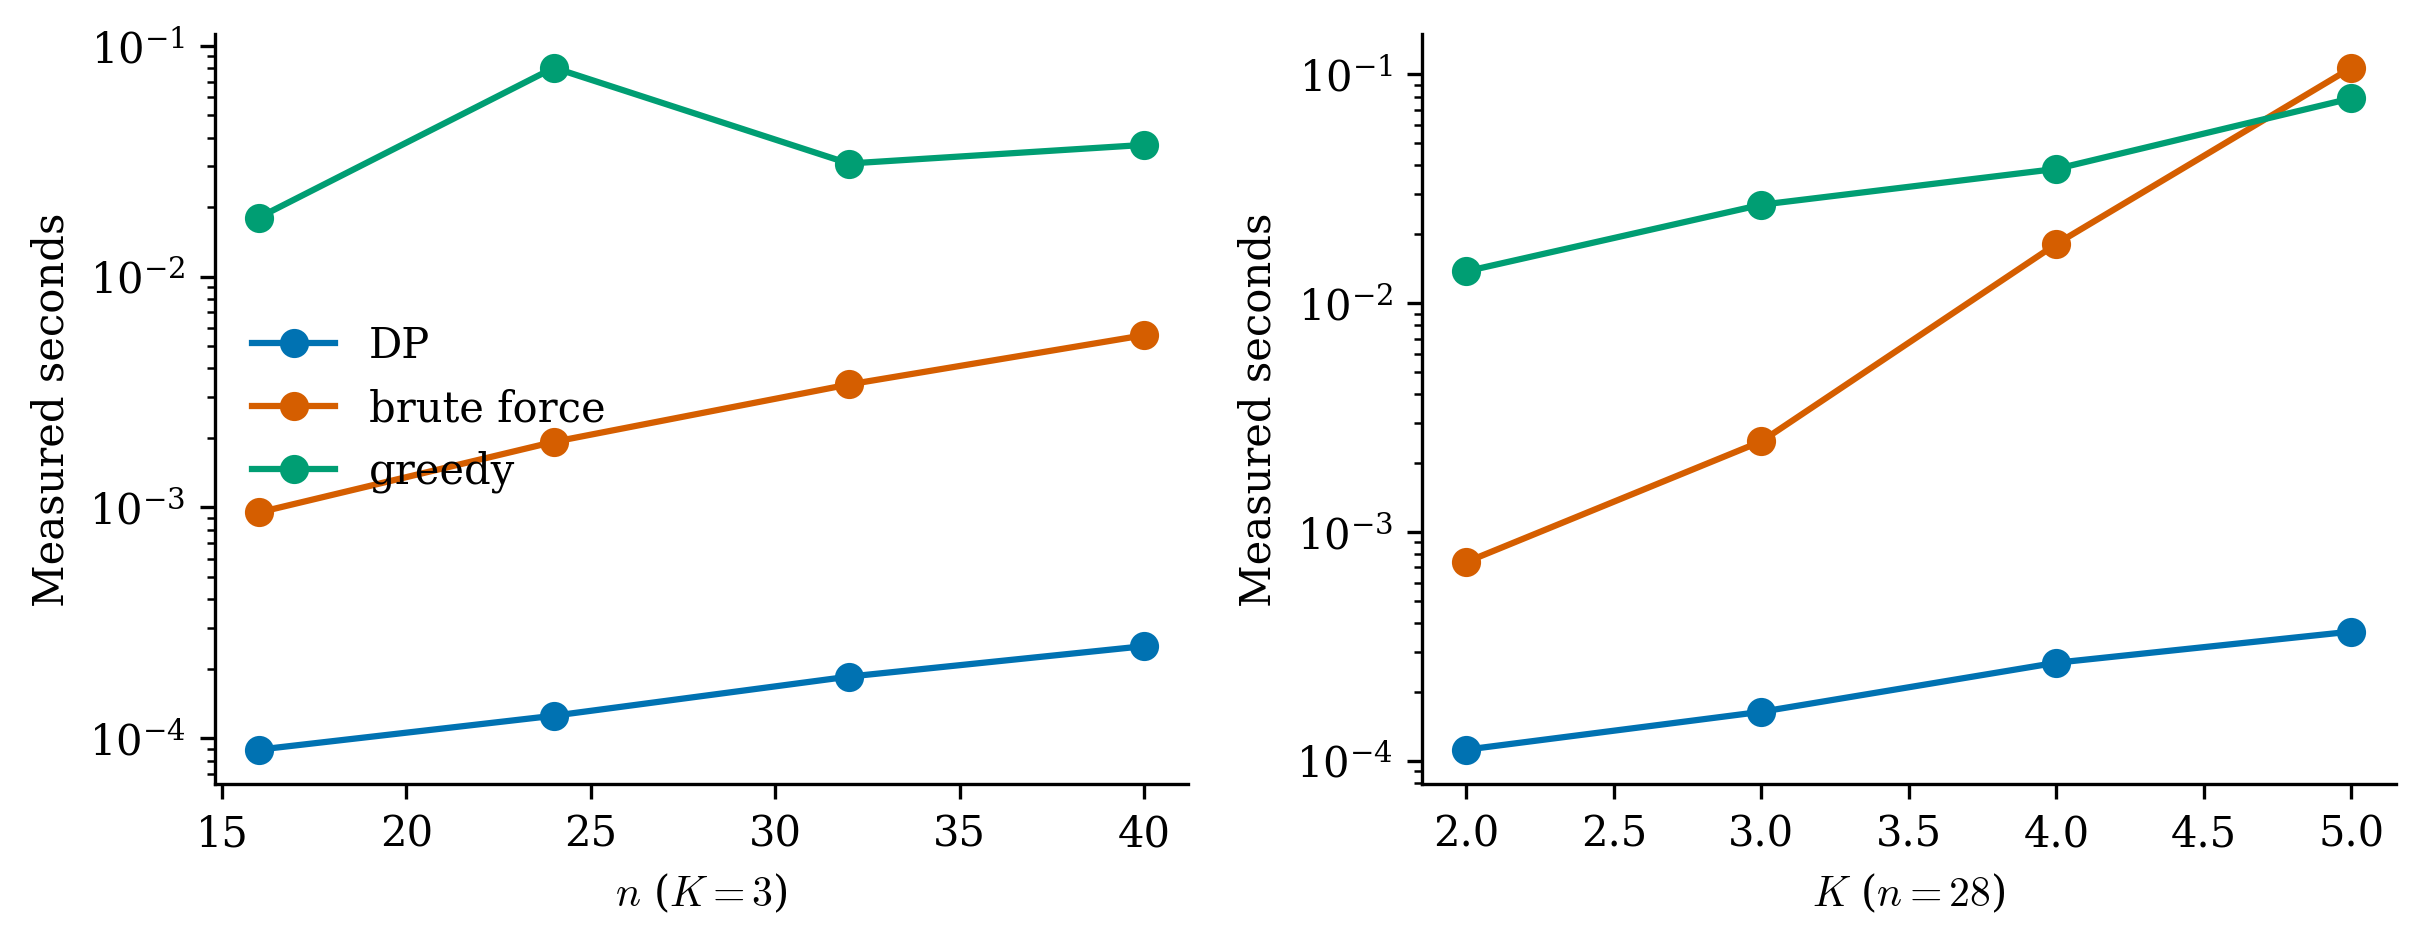
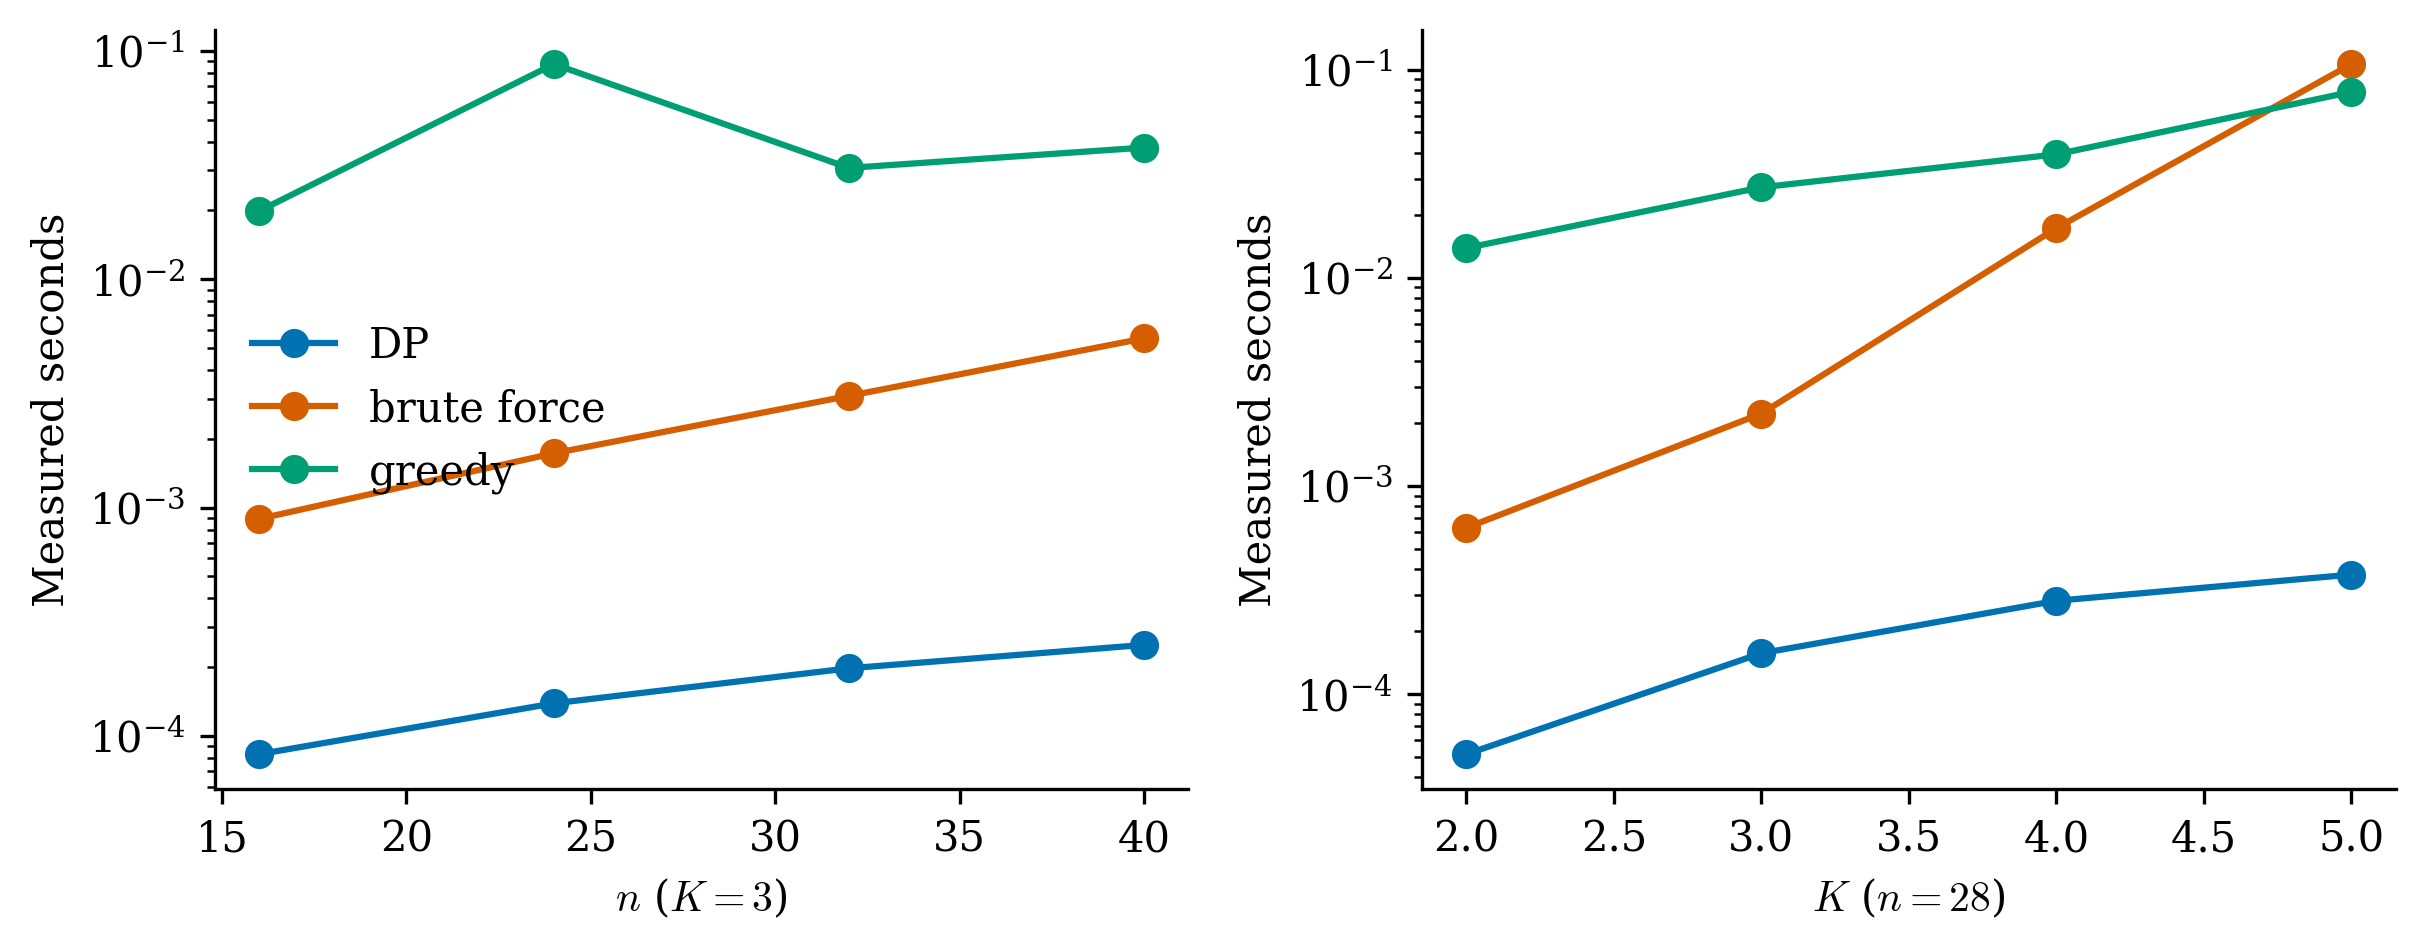
Document historical artifact source

diff --git a/scripts/rebuttal/phase1_audit.py b/scripts/rebuttal/phase1_audit.py
@@ -486,6 +486,16 @@ Measured repeats are in [timings.csv](results/timings.csv); command output is in
 [test_output.txt](results/test_output.txt). The pre-change workflow record is in
 [baseline.md](baseline.md).
 
+## Historical reference tree
+
+Artifacts not ported into this cleaner repository are checked read-only under
+`/scratch/ga442/Weighted-ERM` (override with `WERM_HISTORICAL_ROOT`). The
+Myocardial status is an archived-result `SMOKE`, based on structural validation
+of the historical posterior pickle; it is not a fresh reproduction. Historical
+FRED CSV/RData inputs were located but not rerun. No audit command writes to or
+modifies the historical tree, and no historical result pickle is copied into
+this repository. If that source tree is unavailable, Myocardial is `BLOCKED`.
+
 The DP candidate matches the live brute-force convention: `Delta` constrains
 adjacent internal changepoints but not endpoints, and K uses the first K columns
 of Z. The requested log-binomial penalty uses K-1 changepoints. No manuscript

diff --git a/rebuttal/phase1/README.md b/rebuttal/phase1/README.md
@@ -6,7 +6,7 @@
 - Maximum objective difference: **0.000e+00**
 - Cases where DP was worse than greedy: **0**
 - Focused tests: **46 passed**
-- DP faster than brute force: **8 / 8** matched configurations (6.6x--291.6x)
+- DP faster than brute force: **8 / 8** matched configurations (10.7x--283.9x)
 - Exact rerun: `bash scripts/rebuttal/check_phase1.sh`
 
 ![DP versus brute force](figures/01_dp_vs_bruteforce.png)
@@ -26,6 +26,16 @@
 Measured repeats are in [timings.csv](results/timings.csv); command output is in
 [test_output.txt](results/test_output.txt). The pre-change workflow record is in
 [baseline.md](baseline.md).
+
+## Historical reference tree
+
+Artifacts not ported into this cleaner repository are checked read-only under
+`/scratch/ga442/Weighted-ERM` (override with `WERM_HISTORICAL_ROOT`). The
+Myocardial status is an archived-result `SMOKE`, based on structural validation
+of the historical posterior pickle; it is not a fresh reproduction. Historical
+FRED CSV/RData inputs were located but not rerun. No audit command writes to or
+modifies the historical tree, and no historical result pickle is copied into
+this repository. If that source tree is unavailable, Myocardial is `BLOCKED`.
 
 The DP candidate matches the live brute-force convention: `Delta` constrains
 adjacent internal changepoints but not endpoints, and K uses the first K columns
